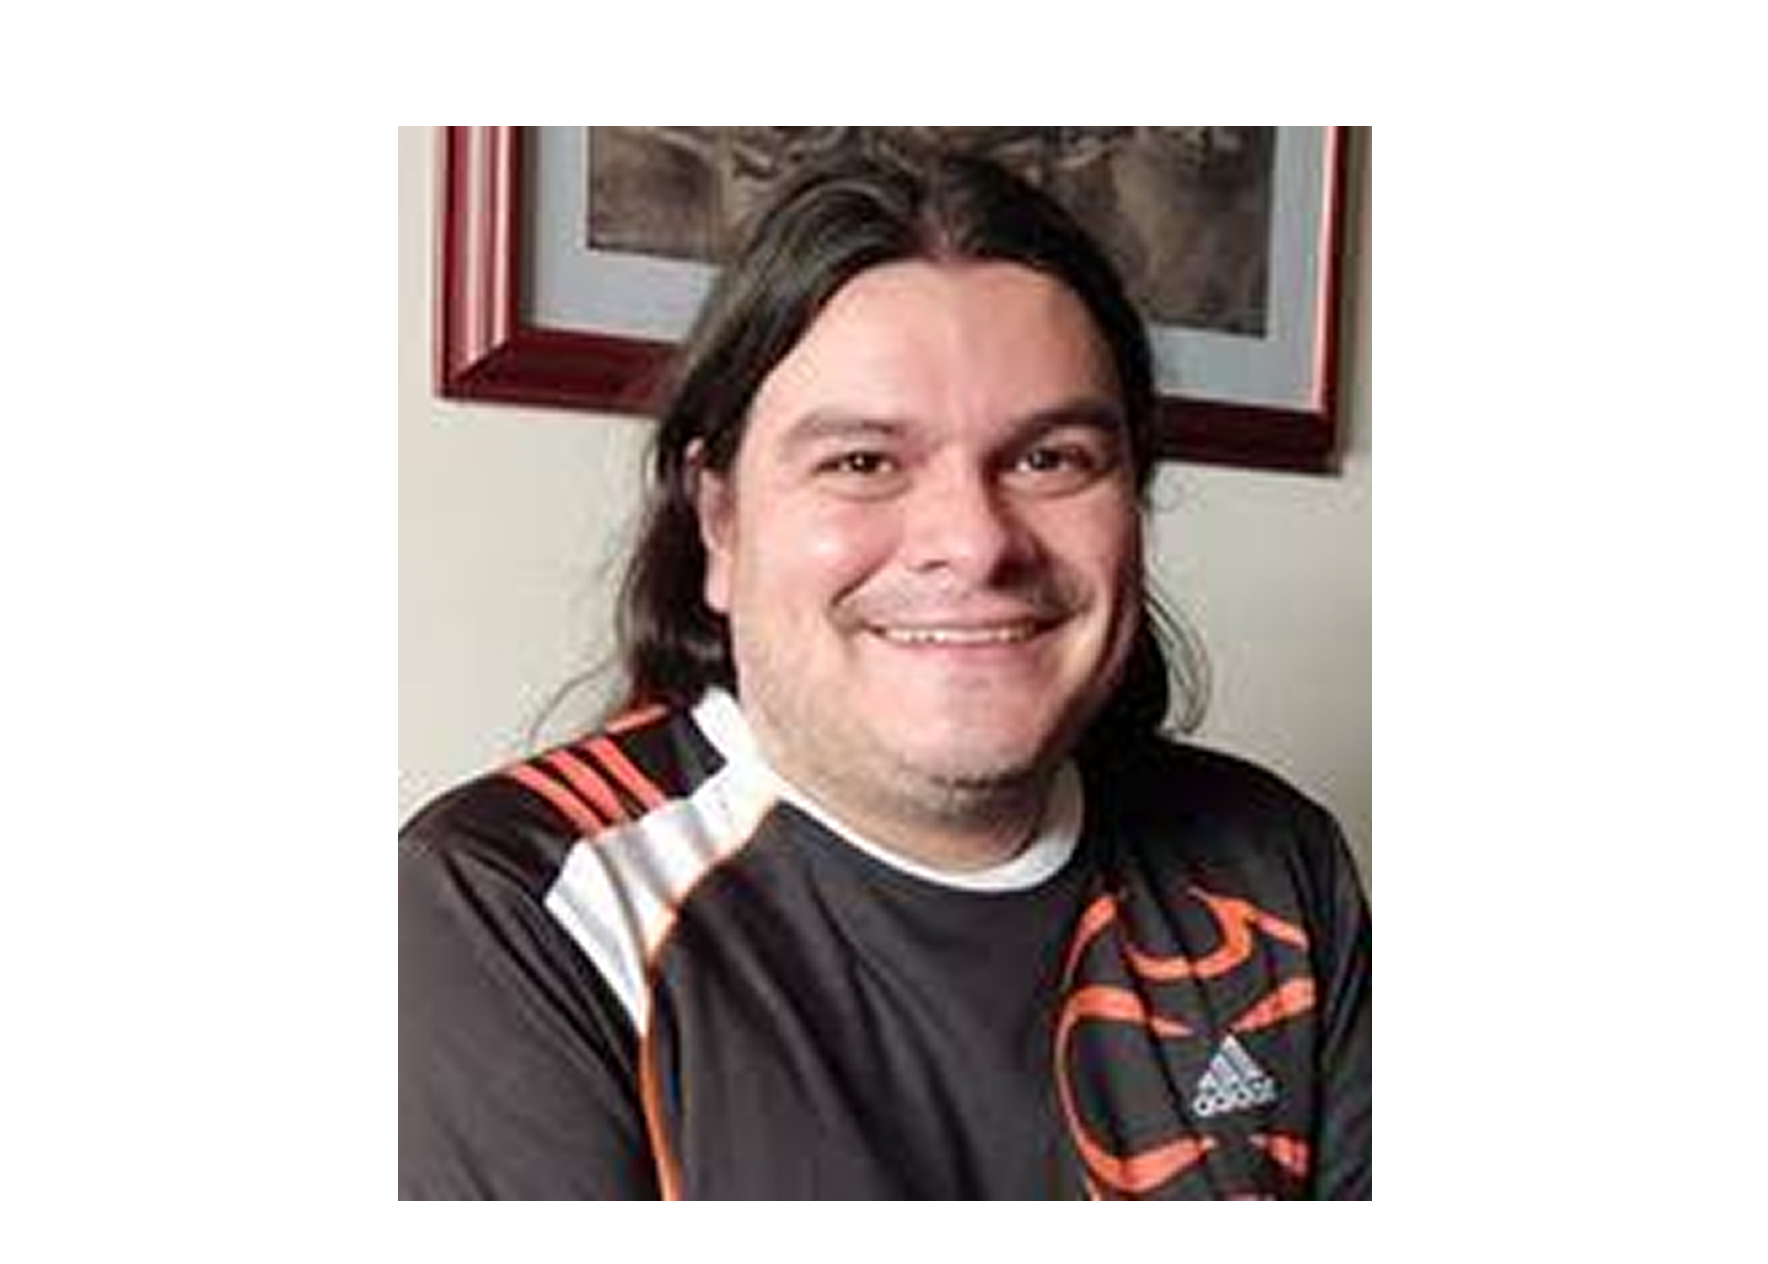
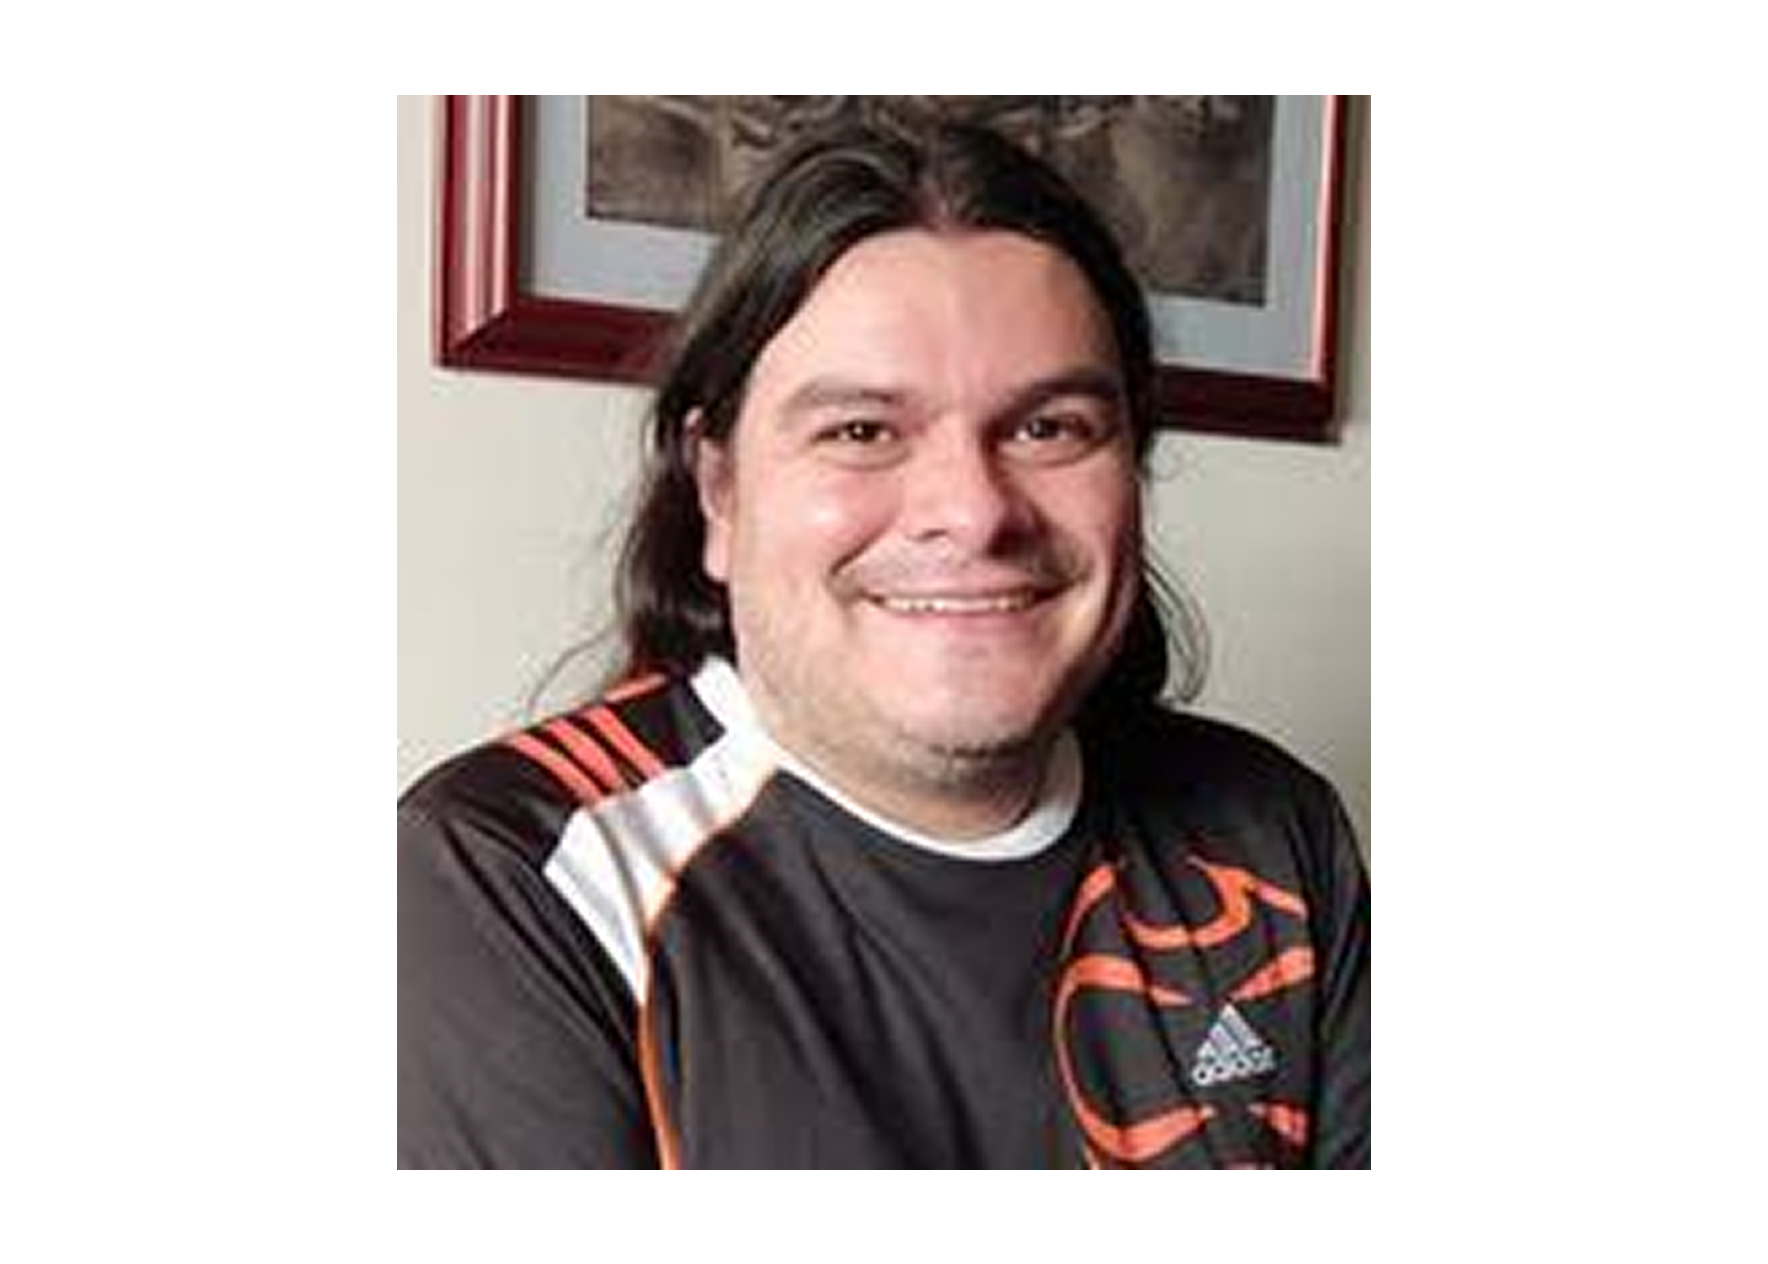
update

Changed region(s): [[0.2178, 0.0617, 0.7777, 0.9565]]

diff --git a/menu_comite_editorial/README.md b/menu_comite_editorial/README.md
@@ -47,12 +47,12 @@ Nuestro equipo está compuesto por docentes y estudiantes apasionados, unidos po
 <h3 align="center"> Andres Felipe Espinosa Quiroga </h3>
 <p align="center"> Estudiante de Ingeniería Mecánica </p>
 
-![Andres](/assets/img/personas/homero_foto.png){:.lead width="884" height="632" loading="lazy"}{:.no-hover.no-mark}
+![Andres](/assets/img/personas/foto_andres.png){:.lead width="884" height="632" loading="lazy"}{:.no-hover.no-mark}
 
 <h3 align="center"> Wilson Ramirez Caicedo </h3>
 <p align="center"> Estudiante de Ingeniería Electrónica </p>
 
-![Willy](/assets/img/personas/homero_foto.png){:.lead width="884" height="632" loading="lazy"}{:.no-hover.no-mark}
+![Willy](/assets/img/personas/foto_willy.png){:.lead width="884" height="632" loading="lazy"}{:.no-hover.no-mark}
 
 
 
